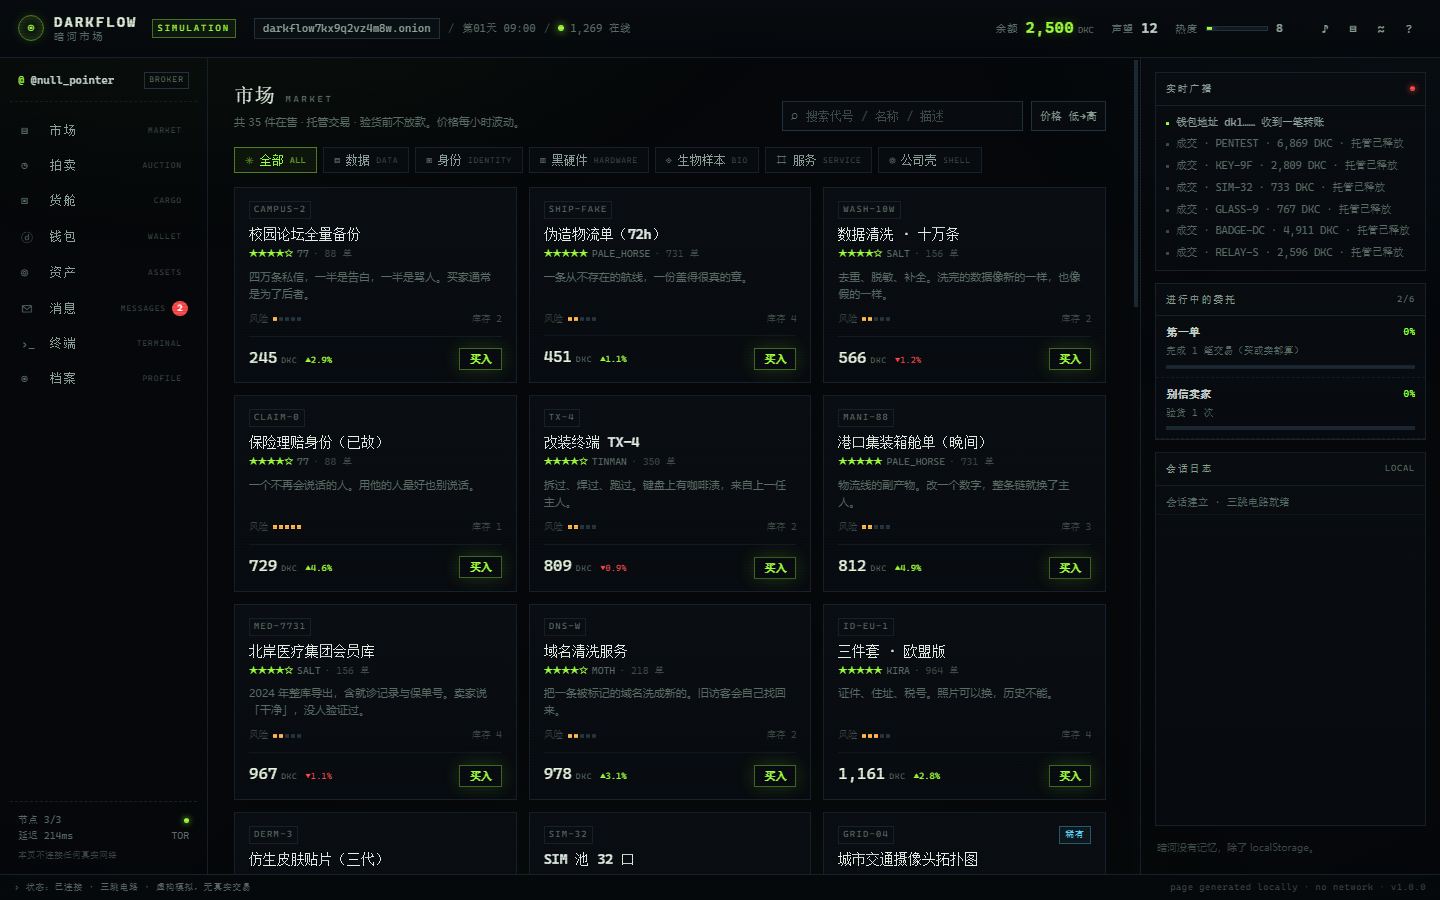
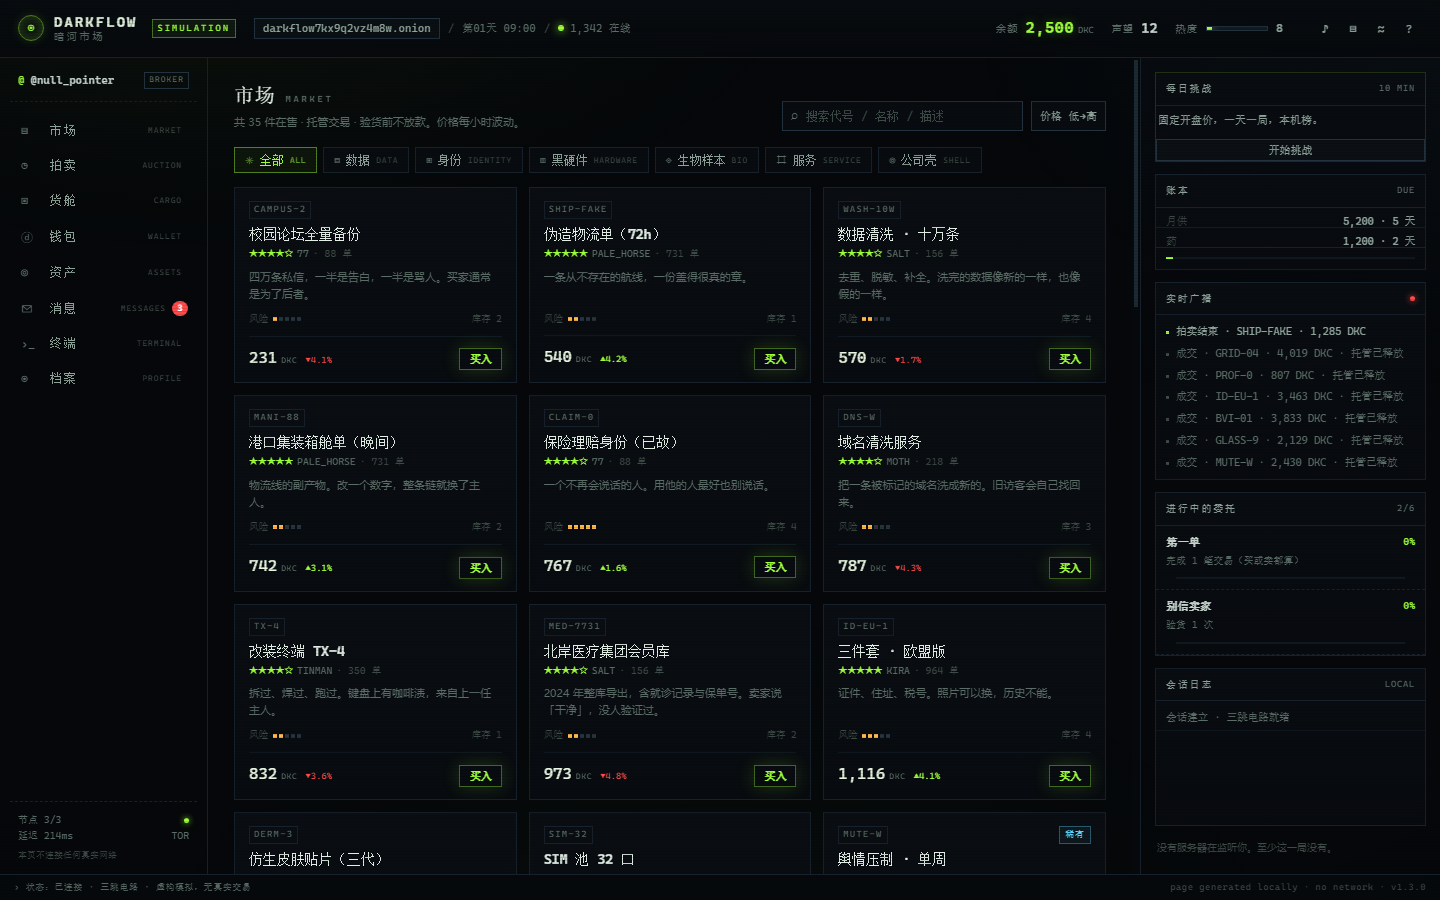
修复：左栏账本行排版（标签/数值两端对齐、进度条收进面板），序章截图更新

diff --git a/assets/style.css b/assets/style.css
@@ -969,3 +969,11 @@ body.heat-danger #app::after { box-shadow: inset 0 0 180px rgba(255, 75, 75, .32
 .lg-row b { color: var(--fg); font-weight: 500; }
 .lg-row b.red { color: var(--red); }
 @media (max-width: 860px) { .debt-grid { grid-template-columns: 1fr; gap: 20px; } .dq-amount { font-size: 28px; } }
+
+/* ── 左栏账本 ─────────────────────────────────────────── */
+.ledger-panel { padding-bottom: 8px; }
+.lg-row { display: flex; align-items: baseline; justify-content: space-between; gap: 8px; padding: 7px 10px 0; font: 10.5px var(--mono); color: var(--dim2); }
+.lg-row b { color: var(--fg2); font-weight: 500; white-space: nowrap; }
+.lg-row b.red { color: #ff5a4d; }
+.mini-bar { height: 2px; background: #101820; margin: 9px 10px 2px; }
+.mini-bar i { display: block; height: 100%; background: var(--acid); }
